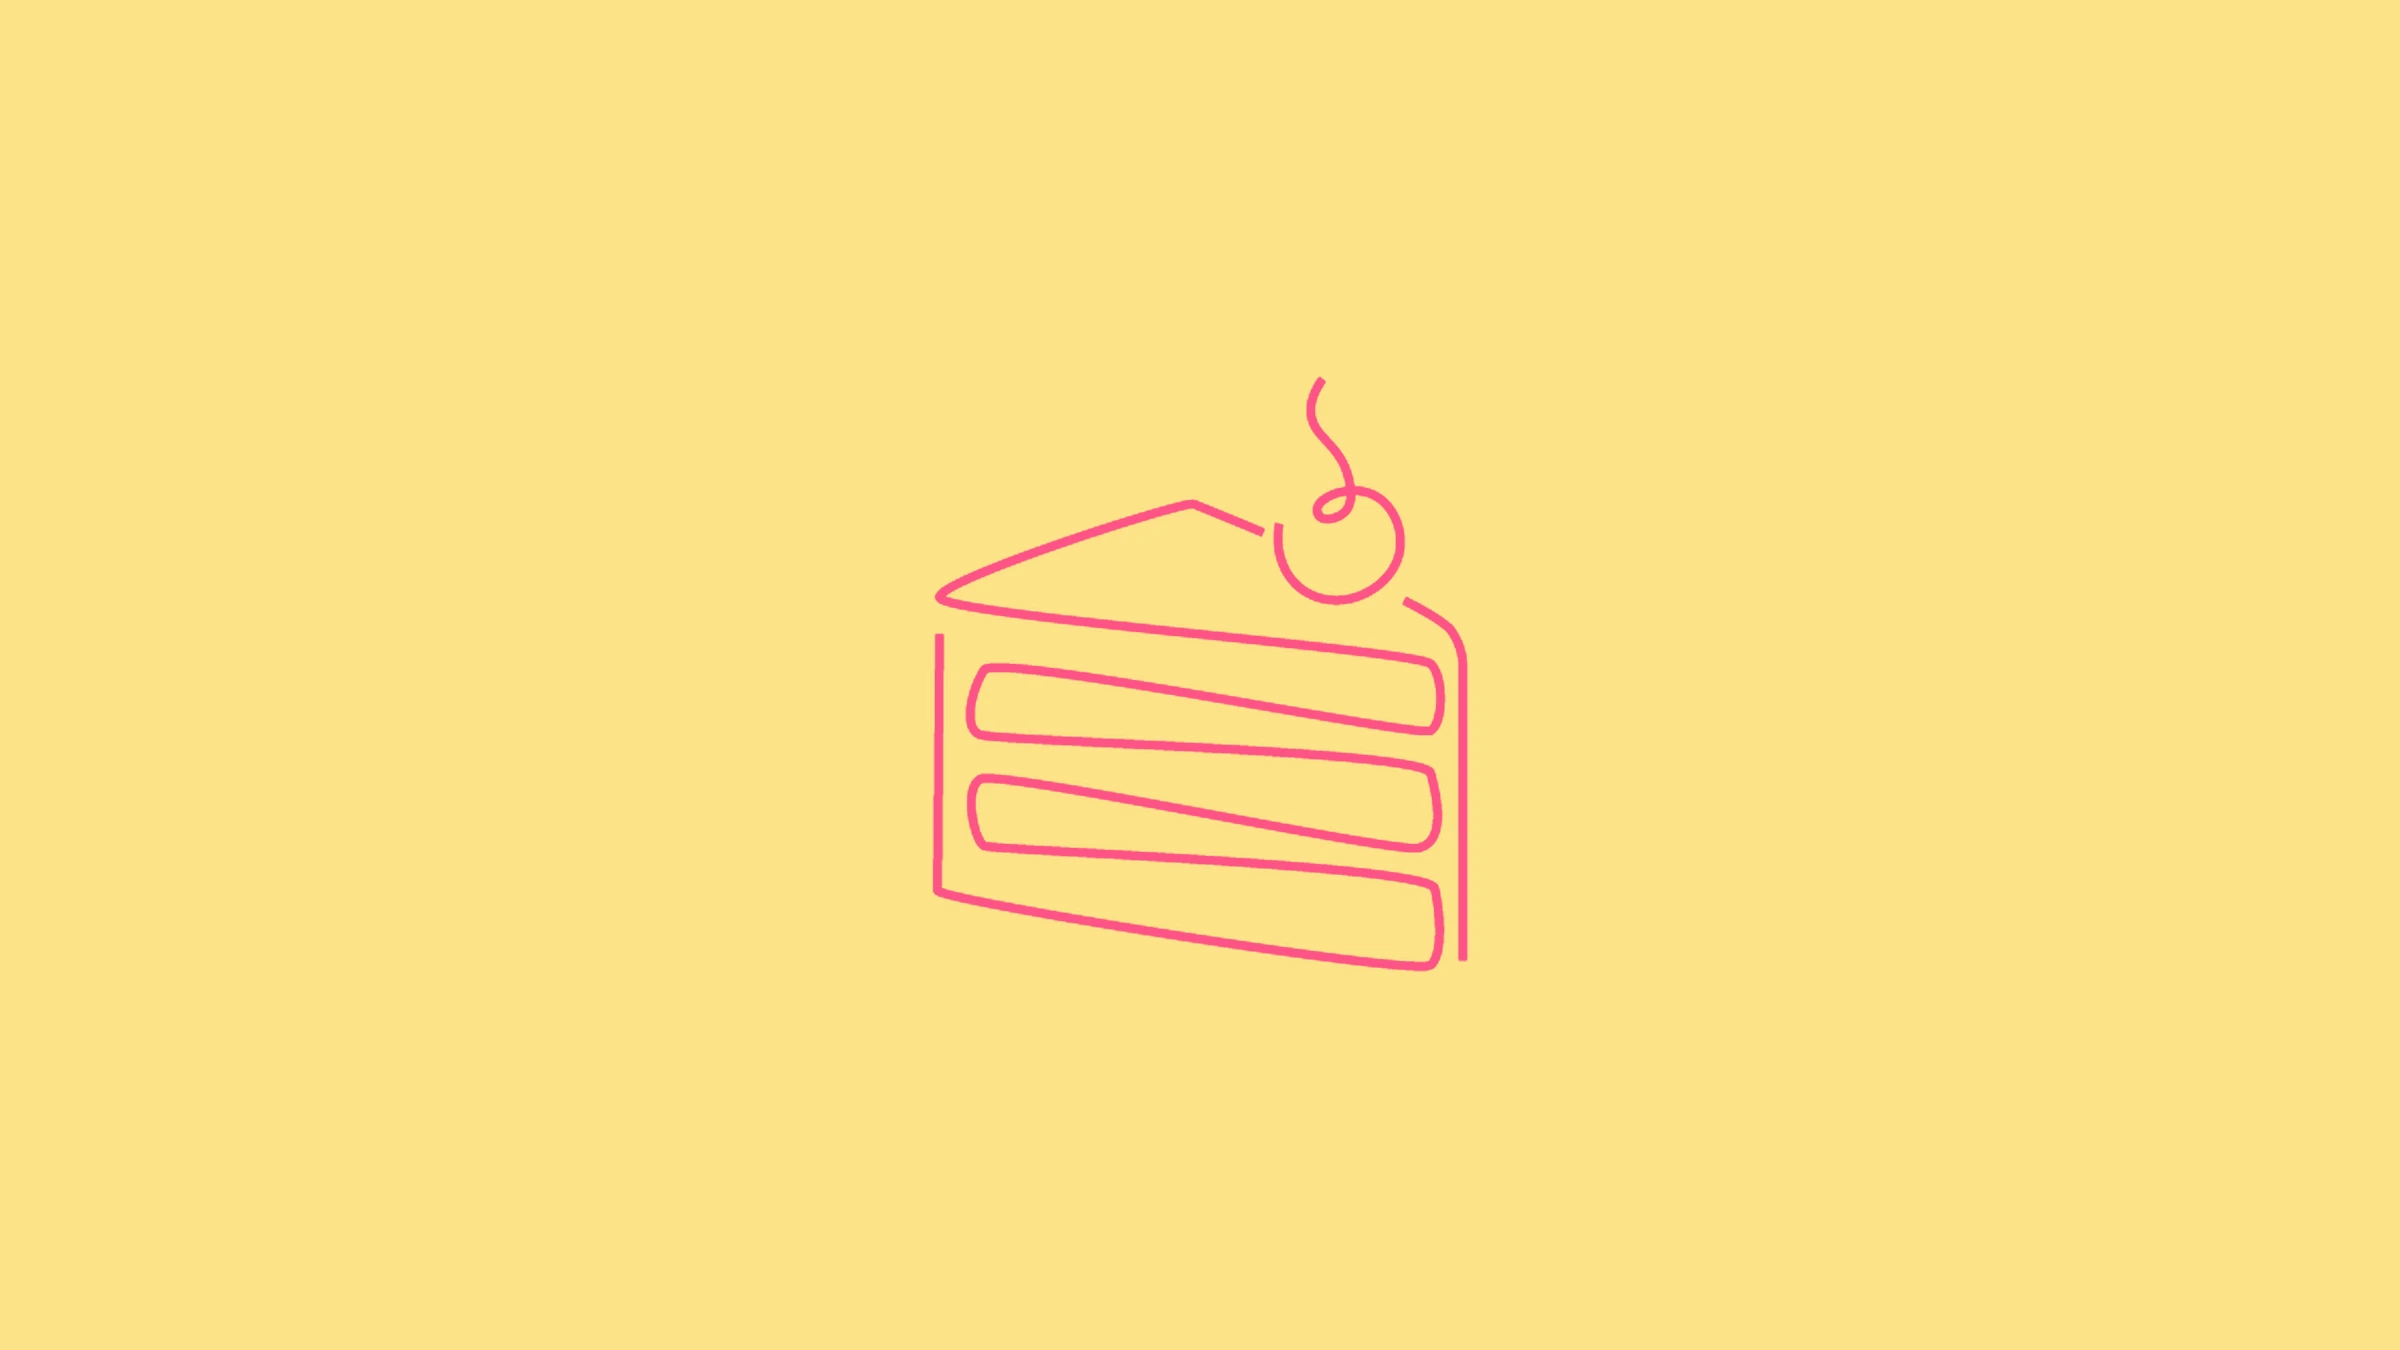
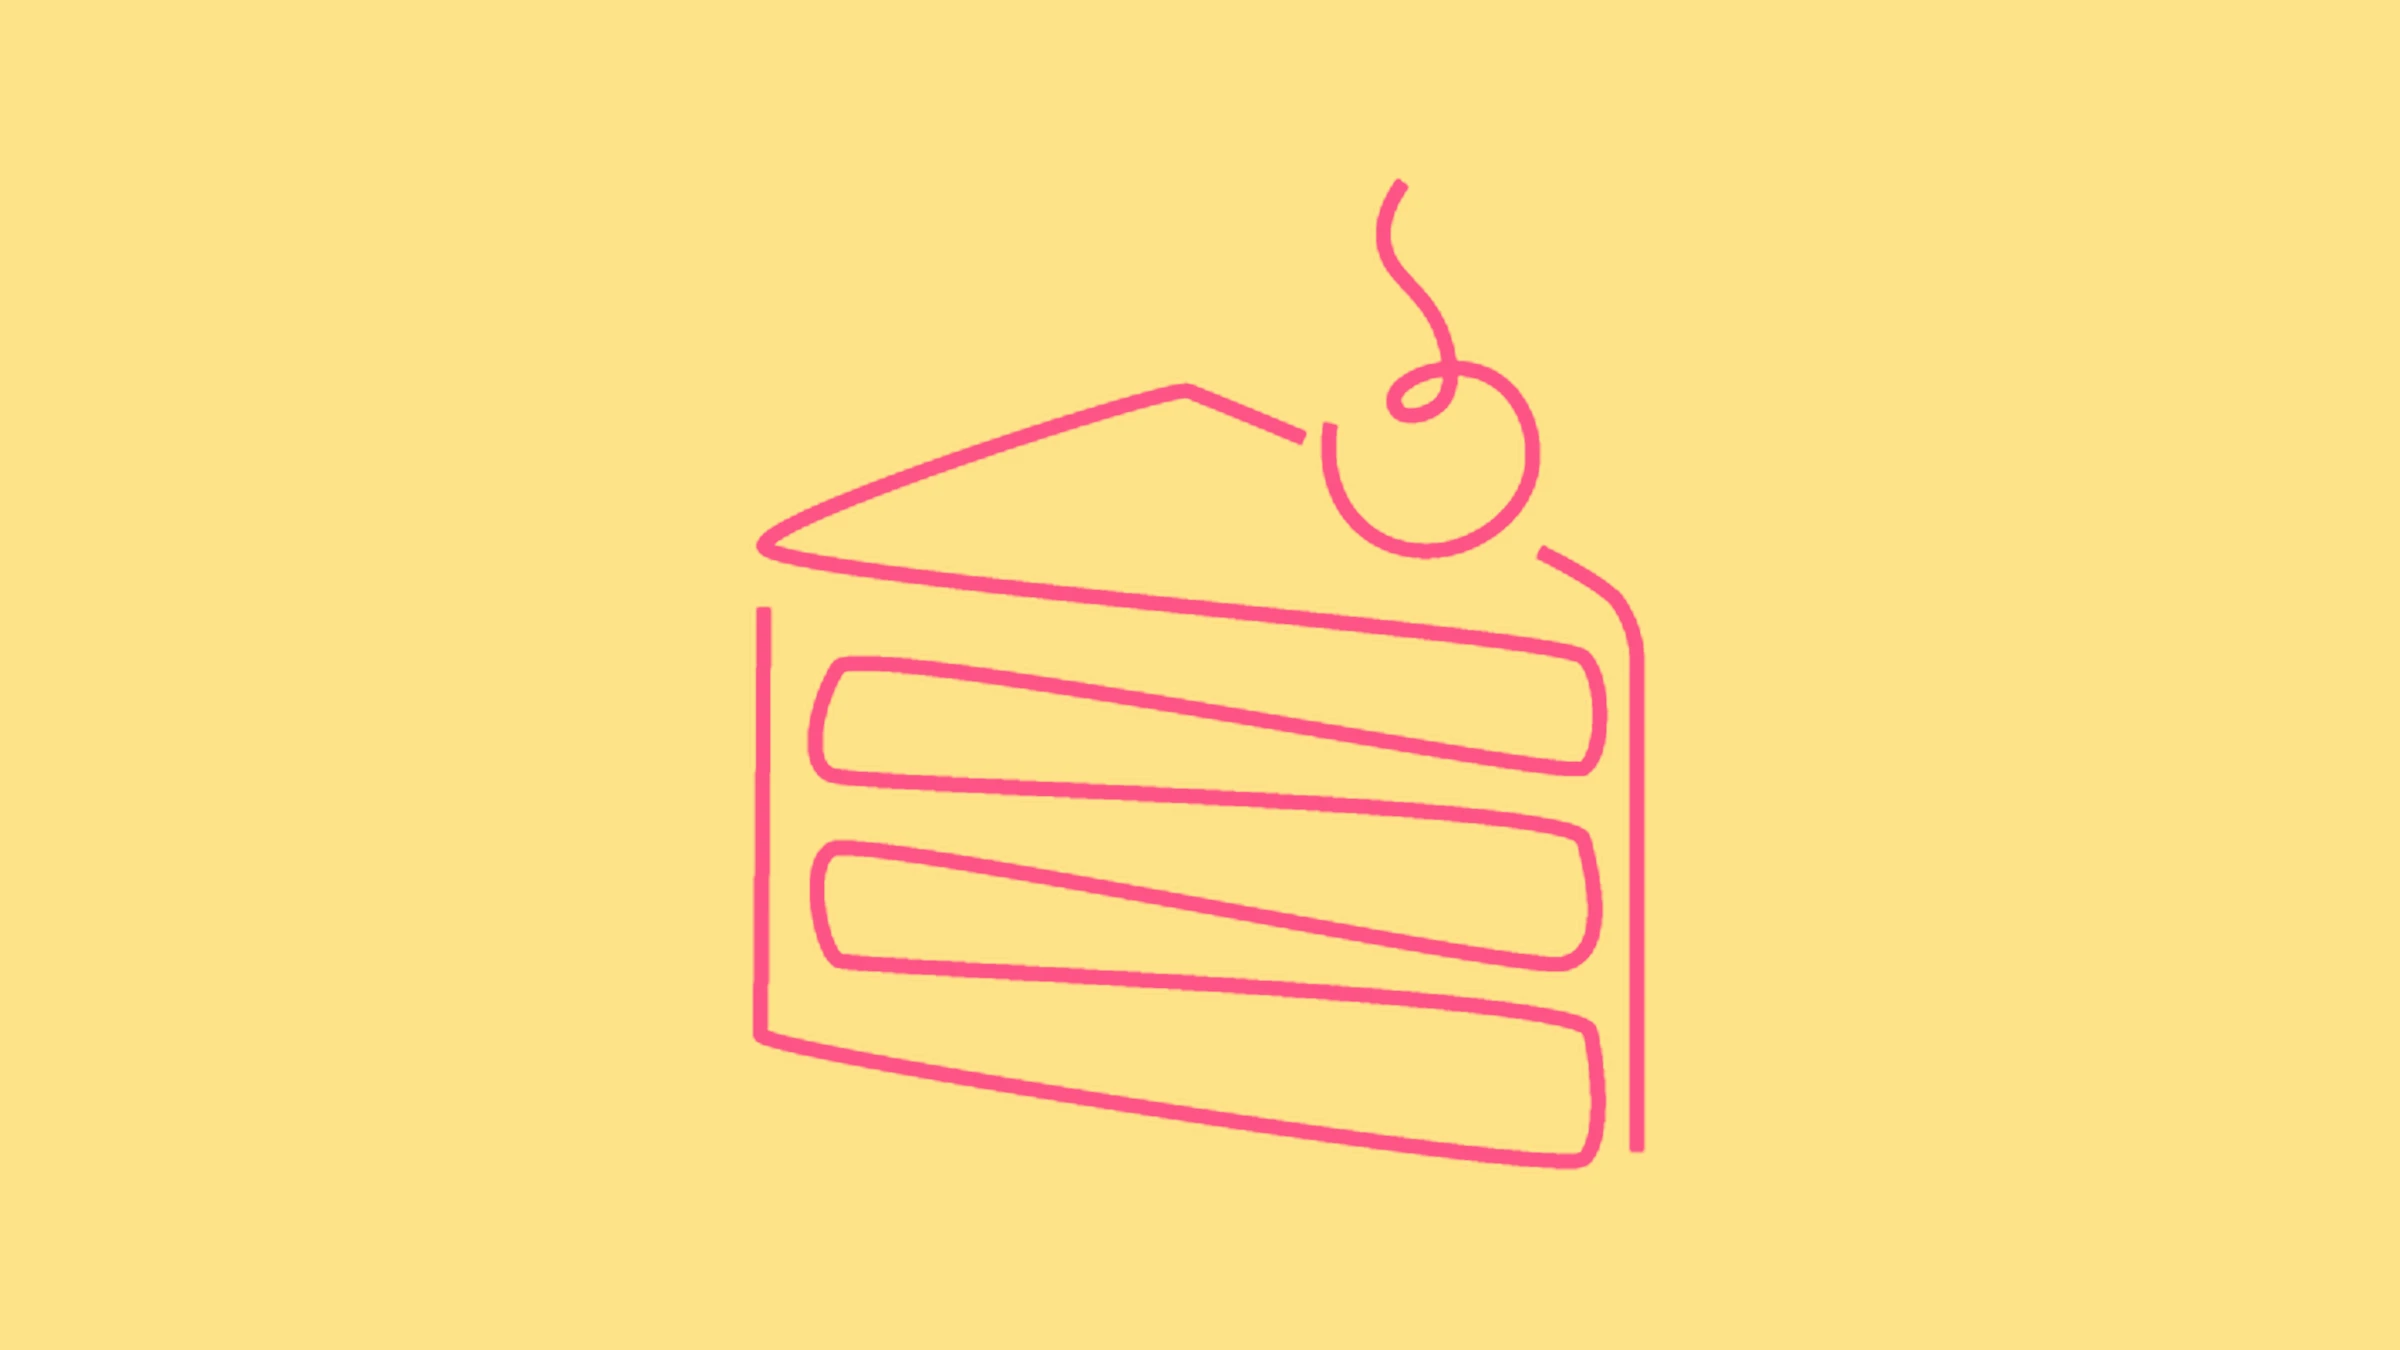
Ravid: screens from studio, projects and contact pages, light table; Yaela delicate cover; Creamarina larger mark

Changed region(s): [[0.3125, 0.2178, 0.6875, 0.8711], [0.5625, 0.1244, 0.5938, 0.2178], [0.3438, 0.7778, 0.4375, 0.8089]]

diff --git a/project-ravid.html b/project-ravid.html
@@ -60,19 +60,19 @@
   <section class="ps" aria-labelledby="h-site">
     <h2 id="h-site"><small>02</small>אתר</h2>
     <div class="brw rv"><i></i><img src="assets/img/p/ravid/d-s0.webp" alt="האתר של רביד נחום אדריכלים במחשב" loading="lazy"></div>
-    <div class="tile band gap rv" style="background:#A56332"><div class="phones"><div class="phn"><span class="sbar" aria-hidden="true"><b>9:41</b><i></i></span><img src="assets/img/p/ravid/m-s0.webp" alt="האתר של רביד נחום אדריכלים בטלפון" loading="lazy"></div><div class="phn"><span class="sbar" aria-hidden="true"><b>9:41</b><i></i></span><img src="assets/img/p/ravid/m-s900.webp" alt="האתר של רביד נחום אדריכלים בטלפון" loading="lazy"></div><div class="phn"><span class="sbar" aria-hidden="true"><b>9:41</b><i></i></span><img src="assets/img/p/ravid/m-s2200.webp" alt="האתר של רביד נחום אדריכלים בטלפון" loading="lazy"></div></div></div>
+    <div class="tile band gap rv" style="background:#A56332"><div class="phones"><div class="phn"><span class="sbar" aria-hidden="true"><b>9:41</b><i></i></span><img src="assets/img/p/ravid/m-s0.webp" alt="האתר של רביד נחום אדריכלים בטלפון" loading="lazy"></div><div class="phn"><span class="sbar" aria-hidden="true"><b>9:41</b><i></i></span><img src="assets/img/p/ravid/m-proj.webp" alt="האתר של רביד נחום אדריכלים בטלפון" loading="lazy"></div><div class="phn"><span class="sbar" aria-hidden="true"><b>9:41</b><i></i></span><img src="assets/img/p/ravid/m-s2200.webp" alt="האתר של רביד נחום אדריכלים בטלפון" loading="lazy"></div></div></div>
     <div class="g2 gap">
-      <div class="tile rv" style="background:#E0E0CF"><div class="brw inset"><i></i><img src="assets/img/p/ravid/d-s1100.webp" alt="האתר של רביד נחום אדריכלים במחשב" loading="lazy"></div></div>
-      <div class="tile rv" style="background:#042A2B"><div class="brw inset"><i></i><img src="assets/img/p/ravid/d-s2300.webp" alt="האתר של רביד נחום אדריכלים במחשב" loading="lazy"></div></div>
+      <div class="tile rv" style="background:#E0E0CF"><div class="brw inset"><i></i><img src="assets/img/p/ravid/d-studio0.webp" alt="האתר של רביד נחום אדריכלים במחשב" loading="lazy"></div></div>
+      <div class="tile rv" style="background:#EDE6DA"><div class="brw inset"><i></i><img src="assets/img/p/ravid/d-s2300.webp" alt="האתר של רביד נחום אדריכלים במחשב" loading="lazy"></div></div>
     </div>
-    <div class="tbl rv" style="background:#042A2B" aria-hidden="true"><div class="pl">
-      <div class="row"><img src="assets/img/p/ravid/d-s0.webp" alt="" loading="lazy"><img src="assets/img/p/ravid/d-s1100.webp" alt="" loading="lazy"><img src="assets/img/p/ravid/d-s2300.webp" alt="" loading="lazy"><img src="assets/img/p/ravid/d-s7300.webp" alt="" loading="lazy"><img src="assets/img/p/ravid/d-s4700.webp" alt="" loading="lazy"><img src="assets/img/p/ravid/d-s5300.webp" alt="" loading="lazy"><img src="assets/img/p/ravid/d-s8200.webp" alt="" loading="lazy"><img src="assets/img/p/ravid/d-s0.webp" alt="" loading="lazy"><img src="assets/img/p/ravid/d-s1100.webp" alt="" loading="lazy"><img src="assets/img/p/ravid/d-s2300.webp" alt="" loading="lazy"><img src="assets/img/p/ravid/d-s7300.webp" alt="" loading="lazy"><img src="assets/img/p/ravid/d-s4700.webp" alt="" loading="lazy"><img src="assets/img/p/ravid/d-s5300.webp" alt="" loading="lazy"><img src="assets/img/p/ravid/d-s8200.webp" alt="" loading="lazy"></div>
-      <div class="row b"><img src="assets/img/p/ravid/d-s7300.webp" alt="" loading="lazy"><img src="assets/img/p/ravid/d-s4700.webp" alt="" loading="lazy"><img src="assets/img/p/ravid/d-s5300.webp" alt="" loading="lazy"><img src="assets/img/p/ravid/d-s8200.webp" alt="" loading="lazy"><img src="assets/img/p/ravid/d-s0.webp" alt="" loading="lazy"><img src="assets/img/p/ravid/d-s1100.webp" alt="" loading="lazy"><img src="assets/img/p/ravid/d-s2300.webp" alt="" loading="lazy"><img src="assets/img/p/ravid/d-s7300.webp" alt="" loading="lazy"><img src="assets/img/p/ravid/d-s4700.webp" alt="" loading="lazy"><img src="assets/img/p/ravid/d-s5300.webp" alt="" loading="lazy"><img src="assets/img/p/ravid/d-s8200.webp" alt="" loading="lazy"><img src="assets/img/p/ravid/d-s0.webp" alt="" loading="lazy"><img src="assets/img/p/ravid/d-s1100.webp" alt="" loading="lazy"><img src="assets/img/p/ravid/d-s2300.webp" alt="" loading="lazy"></div>
-      <div class="row c"><img src="assets/img/p/ravid/d-s5300.webp" alt="" loading="lazy"><img src="assets/img/p/ravid/d-s8200.webp" alt="" loading="lazy"><img src="assets/img/p/ravid/d-s0.webp" alt="" loading="lazy"><img src="assets/img/p/ravid/d-s1100.webp" alt="" loading="lazy"><img src="assets/img/p/ravid/d-s2300.webp" alt="" loading="lazy"><img src="assets/img/p/ravid/d-s7300.webp" alt="" loading="lazy"><img src="assets/img/p/ravid/d-s4700.webp" alt="" loading="lazy"><img src="assets/img/p/ravid/d-s5300.webp" alt="" loading="lazy"><img src="assets/img/p/ravid/d-s8200.webp" alt="" loading="lazy"><img src="assets/img/p/ravid/d-s0.webp" alt="" loading="lazy"><img src="assets/img/p/ravid/d-s1100.webp" alt="" loading="lazy"><img src="assets/img/p/ravid/d-s2300.webp" alt="" loading="lazy"><img src="assets/img/p/ravid/d-s7300.webp" alt="" loading="lazy"><img src="assets/img/p/ravid/d-s4700.webp" alt="" loading="lazy"></div>
+    <div class="tbl rv" style="background:#EDE6DA" aria-hidden="true"><div class="pl">
+      <div class="row"><img src="assets/img/p/ravid/d-s0.webp" alt="" loading="lazy"><img src="assets/img/p/ravid/d-studio0.webp" alt="" loading="lazy"><img src="assets/img/p/ravid/d-s2300.webp" alt="" loading="lazy"><img src="assets/img/p/ravid/d-proj0.webp" alt="" loading="lazy"><img src="assets/img/p/ravid/d-team.webp" alt="" loading="lazy"><img src="assets/img/p/ravid/d-s1100.webp" alt="" loading="lazy"><img src="assets/img/p/ravid/d-proj1.webp" alt="" loading="lazy"><img src="assets/img/p/ravid/d-s4700.webp" alt="" loading="lazy"><img src="assets/img/p/ravid/d-contact.webp" alt="" loading="lazy"><img src="assets/img/p/ravid/d-s7300.webp" alt="" loading="lazy"><img src="assets/img/p/ravid/d-s0.webp" alt="" loading="lazy"><img src="assets/img/p/ravid/d-studio0.webp" alt="" loading="lazy"><img src="assets/img/p/ravid/d-s2300.webp" alt="" loading="lazy"><img src="assets/img/p/ravid/d-proj0.webp" alt="" loading="lazy"><img src="assets/img/p/ravid/d-team.webp" alt="" loading="lazy"><img src="assets/img/p/ravid/d-s1100.webp" alt="" loading="lazy"><img src="assets/img/p/ravid/d-proj1.webp" alt="" loading="lazy"><img src="assets/img/p/ravid/d-s4700.webp" alt="" loading="lazy"><img src="assets/img/p/ravid/d-contact.webp" alt="" loading="lazy"><img src="assets/img/p/ravid/d-s7300.webp" alt="" loading="lazy"></div>
+      <div class="row b"><img src="assets/img/p/ravid/d-team.webp" alt="" loading="lazy"><img src="assets/img/p/ravid/d-s1100.webp" alt="" loading="lazy"><img src="assets/img/p/ravid/d-proj1.webp" alt="" loading="lazy"><img src="assets/img/p/ravid/d-s4700.webp" alt="" loading="lazy"><img src="assets/img/p/ravid/d-contact.webp" alt="" loading="lazy"><img src="assets/img/p/ravid/d-s7300.webp" alt="" loading="lazy"><img src="assets/img/p/ravid/d-s0.webp" alt="" loading="lazy"><img src="assets/img/p/ravid/d-studio0.webp" alt="" loading="lazy"><img src="assets/img/p/ravid/d-s2300.webp" alt="" loading="lazy"><img src="assets/img/p/ravid/d-proj0.webp" alt="" loading="lazy"><img src="assets/img/p/ravid/d-team.webp" alt="" loading="lazy"><img src="assets/img/p/ravid/d-s1100.webp" alt="" loading="lazy"><img src="assets/img/p/ravid/d-proj1.webp" alt="" loading="lazy"><img src="assets/img/p/ravid/d-s4700.webp" alt="" loading="lazy"><img src="assets/img/p/ravid/d-contact.webp" alt="" loading="lazy"><img src="assets/img/p/ravid/d-s7300.webp" alt="" loading="lazy"><img src="assets/img/p/ravid/d-s0.webp" alt="" loading="lazy"><img src="assets/img/p/ravid/d-studio0.webp" alt="" loading="lazy"><img src="assets/img/p/ravid/d-s2300.webp" alt="" loading="lazy"><img src="assets/img/p/ravid/d-proj0.webp" alt="" loading="lazy"></div>
+      <div class="row c"><img src="assets/img/p/ravid/d-s4700.webp" alt="" loading="lazy"><img src="assets/img/p/ravid/d-contact.webp" alt="" loading="lazy"><img src="assets/img/p/ravid/d-s7300.webp" alt="" loading="lazy"><img src="assets/img/p/ravid/d-s0.webp" alt="" loading="lazy"><img src="assets/img/p/ravid/d-studio0.webp" alt="" loading="lazy"><img src="assets/img/p/ravid/d-s2300.webp" alt="" loading="lazy"><img src="assets/img/p/ravid/d-proj0.webp" alt="" loading="lazy"><img src="assets/img/p/ravid/d-team.webp" alt="" loading="lazy"><img src="assets/img/p/ravid/d-s1100.webp" alt="" loading="lazy"><img src="assets/img/p/ravid/d-proj1.webp" alt="" loading="lazy"><img src="assets/img/p/ravid/d-s4700.webp" alt="" loading="lazy"><img src="assets/img/p/ravid/d-contact.webp" alt="" loading="lazy"><img src="assets/img/p/ravid/d-s7300.webp" alt="" loading="lazy"><img src="assets/img/p/ravid/d-s0.webp" alt="" loading="lazy"><img src="assets/img/p/ravid/d-studio0.webp" alt="" loading="lazy"><img src="assets/img/p/ravid/d-s2300.webp" alt="" loading="lazy"><img src="assets/img/p/ravid/d-proj0.webp" alt="" loading="lazy"><img src="assets/img/p/ravid/d-team.webp" alt="" loading="lazy"><img src="assets/img/p/ravid/d-s1100.webp" alt="" loading="lazy"><img src="assets/img/p/ravid/d-proj1.webp" alt="" loading="lazy"></div>
     </div></div>
     <div class="g2 gap">
-      <div class="tile rv" style="background:#042A2B"><div class="brw inset"><i></i><img src="assets/img/p/ravid/d-s7300.webp" alt="האתר של רביד נחום אדריכלים במחשב" loading="lazy"></div></div>
-      <div class="tile rv" style="background:#E0E0CF"><div class="phones"><div class="phn"><span class="sbar" aria-hidden="true"><b>9:41</b><i></i></span><img src="assets/img/p/ravid/m-s5200.webp" alt="האתר של רביד נחום אדריכלים בטלפון" loading="lazy"></div></div></div>
+      <div class="tile rv" style="background:#EDE6DA"><div class="brw inset"><i></i><img src="assets/img/p/ravid/d-proj0.webp" alt="האתר של רביד נחום אדריכלים במחשב" loading="lazy"></div></div>
+      <div class="tile rv" style="background:#E0E0CF"><div class="phones"><div class="phn"><span class="sbar" aria-hidden="true"><b>9:41</b><i></i></span><img src="assets/img/p/ravid/m-studio.webp" alt="האתר של רביד נחום אדריכלים בטלפון" loading="lazy"></div><div class="phn"><span class="sbar" aria-hidden="true"><b>9:41</b><i></i></span><img src="assets/img/p/ravid/m-contact.webp" alt="האתר של רביד נחום אדריכלים בטלפון" loading="lazy"></div></div></div>
     </div>
     <div class="go2"><a class="sb-btn" href="https://kerenar2304.github.io/ravid-nahum/" target="_blank" rel="noopener">לאתר החי <span aria-hidden="true">↖</span><span class="sr">(נפתח בחלון חדש)</span></a></div>
   </section>

diff --git a/project-yaela.html b/project-yaela.html
@@ -12,7 +12,7 @@
 <link rel="stylesheet" href="assets/sub.css">
 <link rel="stylesheet" href="assets/header.css">
 <link rel="stylesheet" href="assets/project.css">
-<link rel="preload" as="image" href="assets/img/p/yaela/hero2.webp" fetchpriority="high">
+<link rel="preload" as="image" href="assets/img/p/yaela/hero3.webp" fetchpriority="high">
 <script type="speculationrules">{"prerender":[{"where":{"href_matches":"*project-*.html"},"eagerness":"moderate"}],"prefetch":[{"where":{"href_matches":"*project-*.html"},"eagerness":"conservative"}]}</script>
 </head>
 <body>
@@ -31,7 +31,7 @@
 
 <main id="main" tabindex="-1">
   <section class="ph" aria-label="יעלה">
-    <img src="assets/img/p/yaela/hero2.webp" alt="" width="1600" height="1000" fetchpriority="high">
+    <img src="assets/img/p/yaela/hero3.webp" alt="" width="1600" height="1000" fetchpriority="high">
     <h1 class="" aria-label="יעלה" dir="rtl"><span>יעלה</span></h1>
     <div class="ph-bar"><span><b>לקוח: יעלה</b> | סטודיו לעיצוב גרפי</span></div>
   </section>
